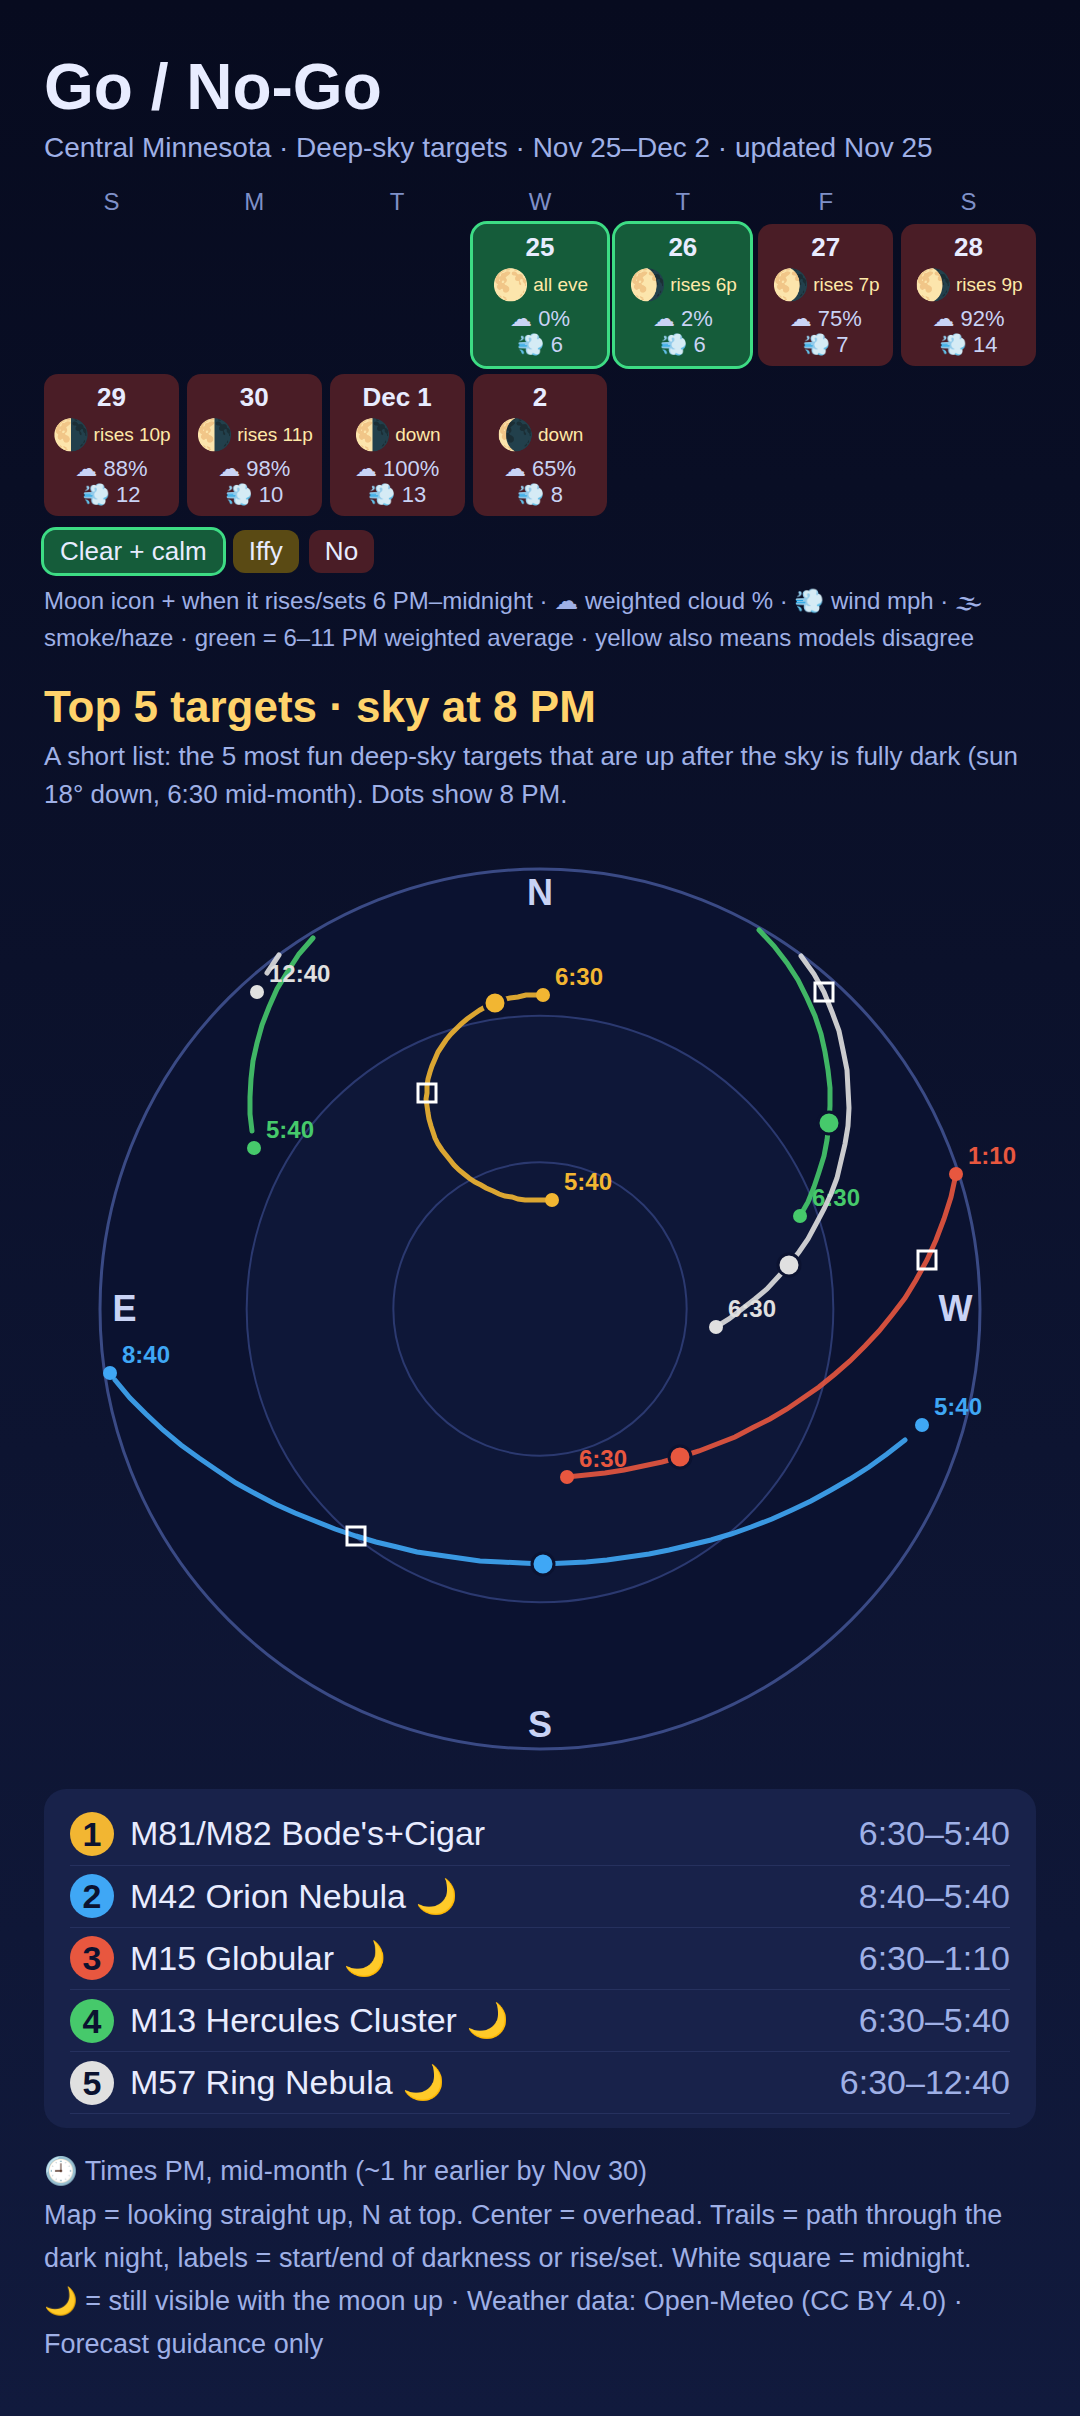
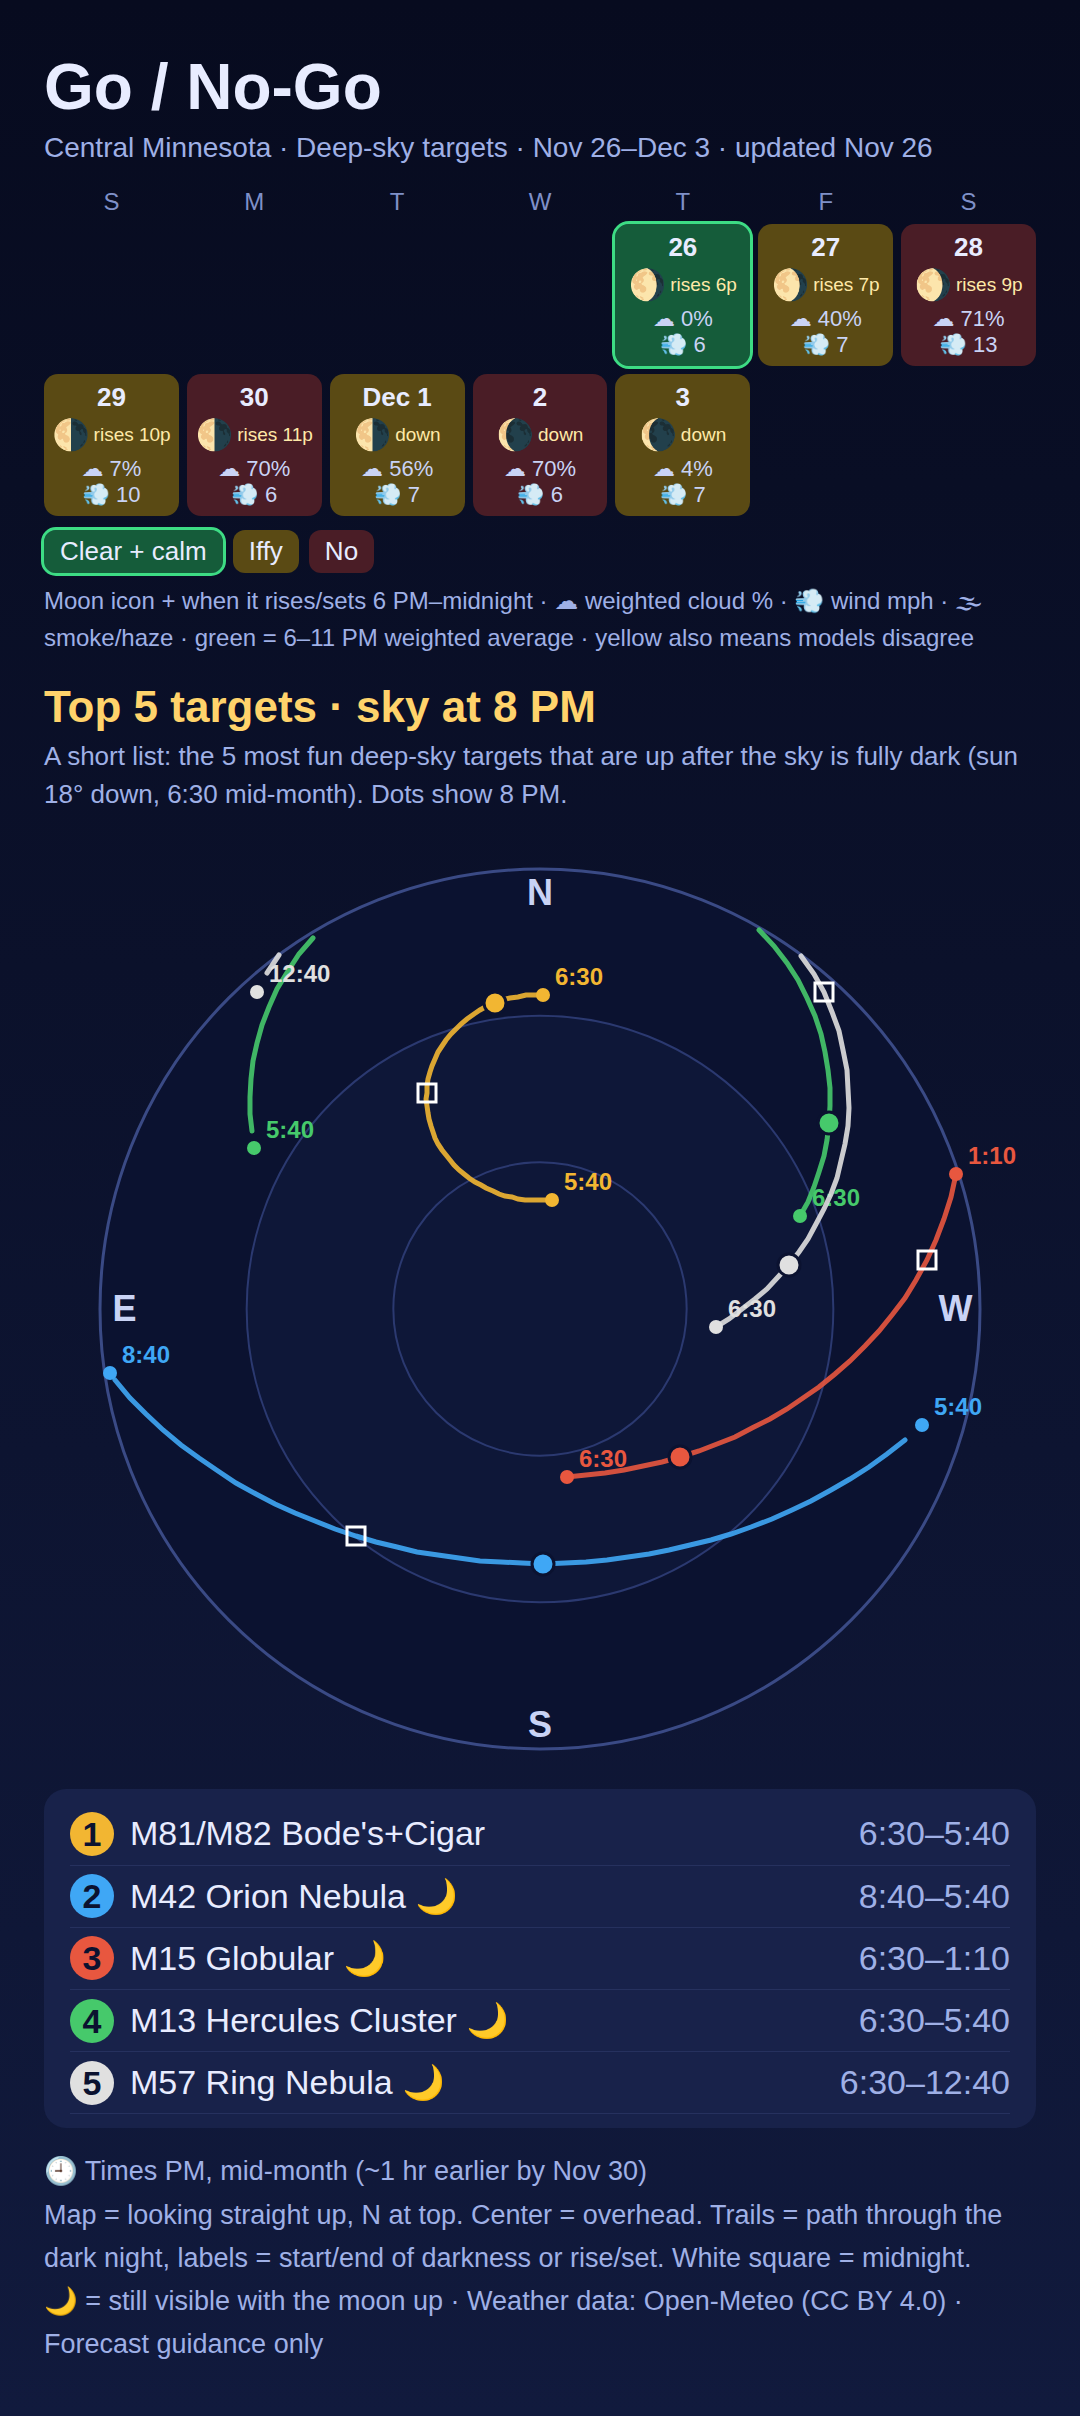
Update stargazing forecast (Nov 26)

diff --git a/_includes/forecast_status.html b/_includes/forecast_status.html
@@ -1,2 +1,2 @@
-<p class="notice--info"><strong>Forecast updated Nov 25:</strong> Next good night: Wed Nov 25: M15 Globular, 6:30 pm-9:30 pm (clear 5.5h, longest 6:30 pm-12:00 am, low 21F)</p>
+<p class="notice--info"><strong>Forecast updated Nov 26:</strong> Next good night: Thu Nov 26: M15 Globular, 6:30 pm-9:30 pm (clear 5.5h, longest 6:30 pm-12:00 am, low 31F)</p>
 <p class="small">Weather data: <a href="https://open-meteo.com/">Open-Meteo</a> (CC BY 4.0). Forecast guidance only — check the sky before heading out.</p>

diff --git a/_posts/1900-01-01-about.md b/_posts/1900-01-01-about.md
@@ -1,6 +1,6 @@
 ---
 title: Coming up
-date: 2026-11-25
+date: 2026-11-26
 header:
   teaser: /images/month.png
 ---
